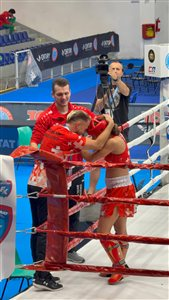
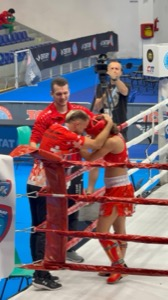
generate web optimized versions

diff --git a/index.html b/index.html
@@ -13,7 +13,7 @@
     <!-- Navigation -->
     <nav id="navbar">
         <div class="logo">
-            <img src="images/tough_cookie_bicep_no_bg.png" alt="Tough Cookie Logo" class="logo-img">
+            <img src="images/web/tough_cookie_bicep_no_bg.png" alt="Tough Cookie Logo" class="logo-img">
             <span>Eva Tschanz-Eichar</span>
         </div>
         <ul class="nav-links">
@@ -54,7 +54,7 @@
         </div>
         <div class="hero-bottom">
             <div class="hero-image-left">
-                <img src="images/eva814.jpg" alt="Eva Tschanz">
+                <img src="images/web/eva814.jpg" alt="Eva Tschanz">
             </div>
         </div>
     </section>
@@ -369,7 +369,7 @@ SCOS Championships: After a full year of qualifications, won most of them to qua
             <p class="education-text" data-i18n="education.text4">As a role model for young girls in combat sports, I strive to inspire them to follow their own path and gain confidence through discipline and hard work.</p>
         </div>
         <div class="education-image reveal">
-            <img src="images/6318a66f-7079-446a-b44a-3199e1eeac28.jpg" alt="Eva Tschanz in the ring at competition" class="img-grayscale-scale-hover">
+            <img src="images/web/6318a66f-7079-446a-b44a-3199e1eeac28.jpg" alt="Eva Tschanz in the ring at competition" class="img-grayscale-scale-hover">
         </div>
     </section>
 
@@ -393,7 +393,7 @@ SCOS Championships: After a full year of qualifications, won most of them to qua
             <h2 class="reveal" data-i18n="partners.title">Current Partners</h2>
             <div class="partners-grid">
                 <div class="partner-card reveal">
-                    <img src="images/WhatsApp Image 2026-01-04 at 08.24.41.jpeg" alt="Edubily Partnership" class="partner-image">
+                    <img src="images/web/WhatsApp Image 2026-01-04 at 08.24.41.jpeg" alt="Edubily Partnership" class="partner-image">
                     <div class="partner-content">
                         <h3>Edubily</h3>
                         <p class="partner-description" data-i18n="partners.edubily.desc">Creating engaging content to support their brand by sharing authentic, high-quality content from my athletic journey.</p>
@@ -473,73 +473,73 @@ SCOS Championships: After a full year of qualifications, won most of them to qua
                 <!-- Competition Photos -->
                 <div class="gallery-section-label">Competition</div>
                 <div class="gallery-item">
-                    <img src="images/new.photos/9d5f0c53-f04d-454b-8d26-d35e7f67abdc.jpg" alt="Eva Tschanz in the ring">
+                    <img src="images/web/9d5f0c53-f04d-454b-8d26-d35e7f67abdc.jpg" alt="Eva Tschanz in the ring">
                 </div>
                 <div class="gallery-item">
-                    <img src="images/new.photos/010d84eb-4c36-4540-a928-06b5fd2009a6.jpg" alt="Eva Tschanz competition">
+                    <img src="images/web/010d84eb-4c36-4540-a928-06b5fd2009a6.jpg" alt="Eva Tschanz competition">
                 </div>
                 <div class="gallery-item">
-                    <img src="images/new.photos/11c89aa2-6cf8-44cd-b415-f4e4df2c8b0e.jpg" alt="Eva Tschanz competition">
+                    <img src="images/web/11c89aa2-6cf8-44cd-b415-f4e4df2c8b0e.jpg" alt="Eva Tschanz competition">
                 </div>
                 <div class="gallery-item">
-                    <img src="images/new.photos/443b7771-c94b-42c2-a763-812e33467138.jpg" alt="Eva Tschanz competition">
+                    <img src="images/web/443b7771-c94b-42c2-a763-812e33467138.jpg" alt="Eva Tschanz competition">
                 </div>
                 <div class="gallery-item">
-                    <img src="images/new.photos/ABD32F29-F18E-49B6-8FF5-07BB15D40C1B.jpg" alt="Eva Tschanz competition">
+                    <img src="images/web/new.photos/ABD32F29-F18E-49B6-8FF5-07BB15D40C1B.jpg" alt="Eva Tschanz competition">
                 </div>
                 <div class="gallery-item">
-                    <img src="images/new.photos/e71b741d-2b2f-412e-a4fb-f8751435b87f.jpg" alt="Eva Tschanz competition">
+                    <img src="images/web/e71b741d-2b2f-412e-a4fb-f8751435b87f.jpg" alt="Eva Tschanz competition">
                 </div>
                 <div class="gallery-item">
-                    <img src="images/new.photos/IMG_0750.JPG" alt="Eva Tschanz competition">
+                    <img src="images/web/new.photos/IMG_0750.JPG" alt="Eva Tschanz competition">
                 </div>
 
                 <!-- Training Photos -->
                 <div class="gallery-section-label">Training</div>
                 <div class="gallery-item position-top">
-                    <img src="images/new.photos/DSC_4670.jpg" alt="Eva Tschanz training">
+                    <img src="images/web/DSC_4670.jpg" alt="Eva Tschanz training">
                 </div>
                 <div class="gallery-item">
-                    <img src="images/new.photos/TRAINING1.jpg" alt="Eva Tschanz training">
+                    <img src="images/web/new.photos/TRAINING1.jpg" alt="Eva Tschanz training">
                 </div>
                 <div class="gallery-item">
-                    <img src="images/new.photos/IMG_1241.JPG" alt="Eva Tschanz training">
+                    <img src="images/web/IMG_1241.JPG" alt="Eva Tschanz training">
                 </div>
                 <div class="gallery-item">
-                    <img src="images/new.photos/IMG_1243.JPG" alt="Eva Tschanz training">
+                    <img src="images/web/new.photos/IMG_1243.JPG" alt="Eva Tschanz training">
                 </div>
                 <div class="gallery-item">
-                    <img src="images/new.photos/IMG_1245.JPG" alt="Eva Tschanz training">
+                    <img src="images/web/IMG_1245.JPG" alt="Eva Tschanz training">
                 </div>
                 <div class="gallery-item">
-                    <img src="images/new.photos/IMG_1246.JPG" alt="Eva Tschanz training">
+                    <img src="images/web/new.photos/IMG_1246.JPG" alt="Eva Tschanz training">
                 </div>
                 <div class="gallery-item">
-                    <img src="images/new.photos/IMG_1248.JPG" alt="Eva Tschanz training">
+                    <img src="images/web/new.photos/IMG_1248.JPG" alt="Eva Tschanz training">
                 </div>
                 <div class="gallery-item">
-                    <img src="images/new.photos/IMG_8190 Copy.JPG" alt="Eva Tschanz training">
+                    <img src="images/web/new.photos/IMG_8190 Copy.JPG" alt="Eva Tschanz training">
                 </div>
                 <div class="gallery-item">
-                    <img src="images/new.photos/IMG_8202 Copy.JPG" alt="Eva Tschanz training">
+                    <img src="images/web/new.photos/IMG_8202 Copy.JPG" alt="Eva Tschanz training">
                 </div>
 
                 <!-- Professional Photos -->
                 <div class="gallery-section-label">Professional</div>
                 <div class="gallery-item">
-                    <img src="images/new.photos/Eva679.jpg" alt="Eva Tschanz portrait">
+                    <img src="images/web/new.photos/Eva679.jpg" alt="Eva Tschanz portrait">
                 </div>
                 <div class="gallery-item">
-                    <img src="images/new.photos/Eva704.jpg" alt="Eva Tschanz portrait">
+                    <img src="images/web/new.photos/Eva704.jpg" alt="Eva Tschanz portrait">
                 </div>
                 <div class="gallery-item">
-                    <img src="images/new.photos/eva792.jpg" alt="Eva Tschanz portrait">
+                    <img src="images/web/eva792.jpg" alt="Eva Tschanz portrait">
                 </div>
                 <div class="gallery-item">
-                    <img src="images/new.photos/eva930.jpg" alt="Eva Tschanz portrait">
+                    <img src="images/web/eva930.jpg" alt="Eva Tschanz portrait">
                 </div>
                 <div class="gallery-item">
-                    <img src="images/new.photos/eva951.jpg" alt="Eva Tschanz portrait">
+                    <img src="images/web/eva951.jpg" alt="Eva Tschanz portrait">
                 </div>
             </div>
         </div>
@@ -561,7 +561,7 @@ SCOS Championships: After a full year of qualifications, won most of them to qua
                 <!-- Competition Videos -->
                 <div class="gallery-section-label">Competition</div>
                 <div class="video-item landscape" data-video-id="2Nkel63UbRY">
-                    <img class="video-thumbnail" src="images/Cover vids/Screenshot 2026-01-16 at 08.35.20.png" alt="Competition video">
+                    <img class="video-thumbnail" src="images/web/Cover vids/Screenshot 2026-01-16 at 08.35.20.png" alt="Competition video">
                     <div class="video-play-btn">
                         <svg viewBox="0 0 68 48" width="68" height="48"><path d="M66.52,7.74c-0.78-2.93-2.49-5.41-5.42-6.19C55.79,.13,34,0,34,0S12.21,.13,6.9,1.55 C3.97,2.33,2.27,4.81,1.48,7.74C0.06,13.05,0,24,0,24s0.06,10.95,1.48,16.26c0.78,2.93,2.49,5.41,5.42,6.19 C12.21,47.87,34,48,34,48s21.79-0.13,27.1-1.55c2.93-0.78,4.64-3.26,5.42-6.19C67.94,34.95,68,24,68,24S67.94,13.05,66.52,7.74z" fill="#212121"></path><path d="M 45,24 27,14 27,34" fill="#fff"></path></svg>
                     </div>
@@ -573,13 +573,13 @@ SCOS Championships: After a full year of qualifications, won most of them to qua
                     </div>
                 </div>
                 <div class="video-item landscape" data-video-id="KbNANkTioNA">
-                    <img class="video-thumbnail" src="images/Cover vids/Screenshot 2026-01-16 at 12.18.22.png" alt="Competition video">
+                    <img class="video-thumbnail" src="images/web/Cover vids/Screenshot 2026-01-16 at 12.18.22.png" alt="Competition video">
                     <div class="video-play-btn">
                         <svg viewBox="0 0 68 48" width="68" height="48"><path d="M66.52,7.74c-0.78-2.93-2.49-5.41-5.42-6.19C55.79,.13,34,0,34,0S12.21,.13,6.9,1.55 C3.97,2.33,2.27,4.81,1.48,7.74C0.06,13.05,0,24,0,24s0.06,10.95,1.48,16.26c0.78,2.93,2.49,5.41,5.42,6.19 C12.21,47.87,34,48,34,48s21.79-0.13,27.1-1.55c2.93-0.78,4.64-3.26,5.42-6.19C67.94,34.95,68,24,68,24S67.94,13.05,66.52,7.74z" fill="#212121"></path><path d="M 45,24 27,14 27,34" fill="#fff"></path></svg>
                     </div>
                 </div>
                 <div class="video-item landscape" data-video-id="XY4V1OJ6SlU">
-                    <img class="video-thumbnail" src="images/Cover vids/Screenshot 2026-01-16 at 10.45.57.png" alt="Competition video">
+                    <img class="video-thumbnail" src="images/web/Cover vids/Screenshot 2026-01-16 at 10.45.57.png" alt="Competition video">
                     <div class="video-play-btn">
                         <svg viewBox="0 0 68 48" width="68" height="48"><path d="M66.52,7.74c-0.78-2.93-2.49-5.41-5.42-6.19C55.79,.13,34,0,34,0S12.21,.13,6.9,1.55 C3.97,2.33,2.27,4.81,1.48,7.74C0.06,13.05,0,24,0,24s0.06,10.95,1.48,16.26c0.78,2.93,2.49,5.41,5.42,6.19 C12.21,47.87,34,48,34,48s21.79-0.13,27.1-1.55c2.93-0.78,4.64-3.26,5.42-6.19C67.94,34.95,68,24,68,24S67.94,13.05,66.52,7.74z" fill="#212121"></path><path d="M 45,24 27,14 27,34" fill="#fff"></path></svg>
                     </div>
@@ -594,7 +594,7 @@ SCOS Championships: After a full year of qualifications, won most of them to qua
                     </div>
                 </div>
                 <div class="video-item" data-video-id="-5-SRNY8LzA">
-                    <img class="video-thumbnail" src="images/Cover vids/Screenshot 2026-01-16 at 10.48.55.png" alt="Training video">
+                    <img class="video-thumbnail" src="images/web/Cover vids/Screenshot 2026-01-16 at 10.48.55.png" alt="Training video">
                     <div class="video-play-btn">
                         <svg viewBox="0 0 68 48" width="68" height="48"><path d="M66.52,7.74c-0.78-2.93-2.49-5.41-5.42-6.19C55.79,.13,34,0,34,0S12.21,.13,6.9,1.55 C3.97,2.33,2.27,4.81,1.48,7.74C0.06,13.05,0,24,0,24s0.06,10.95,1.48,16.26c0.78,2.93,2.49,5.41,5.42,6.19 C12.21,47.87,34,48,34,48s21.79-0.13,27.1-1.55c2.93-0.78,4.64-3.26,5.42-6.19C67.94,34.95,68,24,68,24S67.94,13.05,66.52,7.74z" fill="#212121"></path><path d="M 45,24 27,14 27,34" fill="#fff"></path></svg>
                     </div>
@@ -612,7 +612,7 @@ SCOS Championships: After a full year of qualifications, won most of them to qua
                     </div>
                 </div>
                 <div class="video-item" data-video-id="ln4kmF37aIw">
-                    <img class="video-thumbnail" src="images/Cover vids/Screenshot 2026-01-16 at 12.15.50.png" alt="Training video">
+                    <img class="video-thumbnail" src="images/web/Cover vids/Screenshot 2026-01-16 at 12.15.50.png" alt="Training video">
                     <div class="video-play-btn">
                         <svg viewBox="0 0 68 48" width="68" height="48"><path d="M66.52,7.74c-0.78-2.93-2.49-5.41-5.42-6.19C55.79,.13,34,0,34,0S12.21,.13,6.9,1.55 C3.97,2.33,2.27,4.81,1.48,7.74C0.06,13.05,0,24,0,24s0.06,10.95,1.48,16.26c0.78,2.93,2.49,5.41,5.42,6.19 C12.21,47.87,34,48,34,48s21.79-0.13,27.1-1.55c2.93-0.78,4.64-3.26,5.42-6.19C67.94,34.95,68,24,68,24S67.94,13.05,66.52,7.74z" fill="#212121"></path><path d="M 45,24 27,14 27,34" fill="#fff"></path></svg>
                     </div>
@@ -659,7 +659,7 @@ SCOS Championships: After a full year of qualifications, won most of them to qua
                 <a href="#contact" class="sponsor-cta link-cta-arrow" data-i18n="sponsorship.cta">→ Become a Sponsor</a>
             </div>
             <div class="sponsorship-image reveal">
-                <img src="images/new.photos/TRAINING1.jpg" alt="Eva Tschanz preparing for training at the gym">
+                <img src="images/web/new.photos/TRAINING1.jpg" alt="Eva Tschanz preparing for training at the gym">
             </div>
         </div>
     </section>
@@ -714,7 +714,7 @@ SCOS Championships: After a full year of qualifications, won most of them to qua
         <div class="footer-left">
             <div class="footer-logo">Eva Tschanz-Eichar</div>
             <div class="footer-text" data-i18n="footer.subtitle">European Kickboxing Champion</div>
-            <img src="images/tough_cookie_bicep_no_bg.png" alt="Tough Cookie" class="footer-logo-img">
+            <img src="images/web/tough_cookie_bicep_no_bg.png" alt="Tough Cookie" class="footer-logo-img">
         </div>
         <div class="footer-nav">
             <a href="#about" class="link-hover-accent" data-i18n="nav.about">About Me</a>

diff --git a/CLAUDE.md b/CLAUDE.md
@@ -68,14 +68,29 @@ Located in `js/main.js`:
 - Achievement modal popups
 - Partner card modal
 
-## Images
+## Images and Media
+
+**Important:** Only web-optimized images and videos may be used in the website. Never reference originals from `images/`, `images/new.photos/`, `images/Cover vids/`, or any other non-web directory directly in HTML/CSS/JS.
 
 Images are stored as follows:
-- images/ - contains the original version, shouldn't be used in website, only for generating web and thumbnail versions
-- images/web/ - the web-optimized images that should be used when adding images to the website
-- images/thumbnails/ - a miniature version of the original folders. The files are prefixed with thumb_. To find the image to use, strip thumb_ from the file name and look in the images/web/ directory for the corresponding image
+- `images/` - contains original versions; these must NOT be referenced in the website
+- `images/web/` - web-optimized images; these are the ONLY versions that should be used in the website
+- `images/thumbnails/` - miniature versions prefixed with `thumb_`; use these to browse/analyze images, then reference the corresponding file from `images/web/`
 
-When looking for images to use for the website, look in the thumbnails folder for the small versions to analyze then add the web version to the website
+### Creating web-optimized versions
+
+Scripts for generating web-optimized images and thumbnails are in the `images/` directory:
+- `images/optimize_for_web.sh` - creates web-optimized versions in `images/web/`
+- `images/make_thumbnails.sh` - creates thumbnails in `images/thumbnails/`
+
+**If an image or video does not have a web-optimized version in `images/web/`, create one using the optimization scripts before adding it to the website.**
+
+### Workflow for adding images
+
+1. Place the original image in `images/`
+2. Run the optimization script to generate the web version
+3. Reference only the `images/web/` version in HTML/CSS/JS
+4. When browsing available images, look in `images/thumbnails/` for small previews, then use the corresponding `images/web/` file
 
 ## Deployment
 
